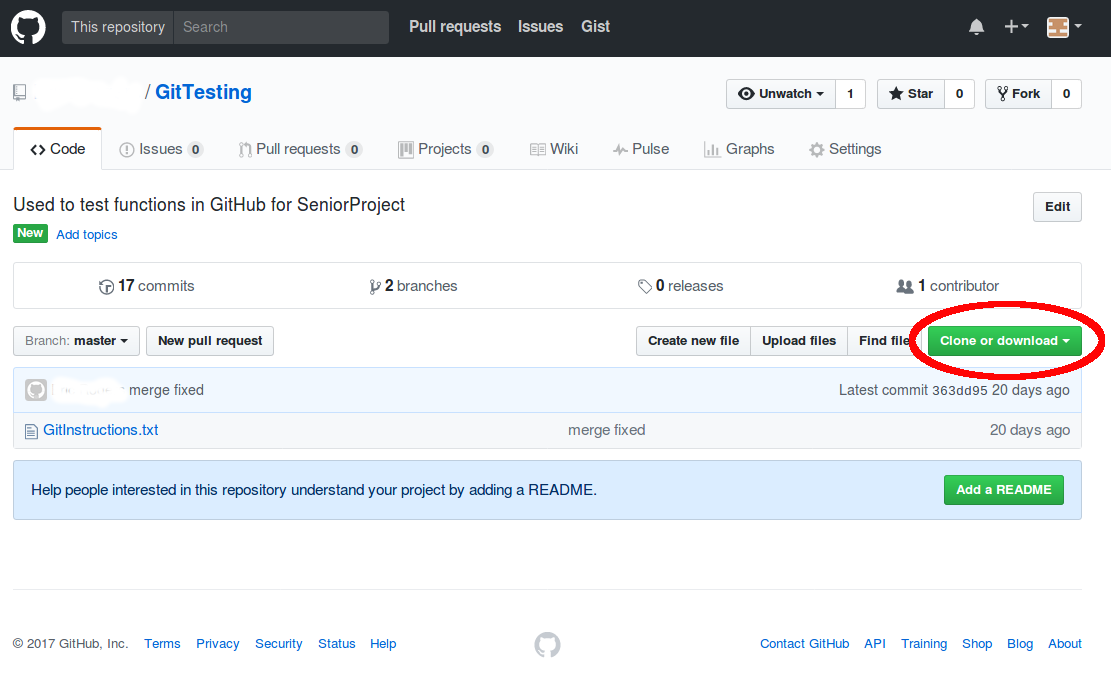
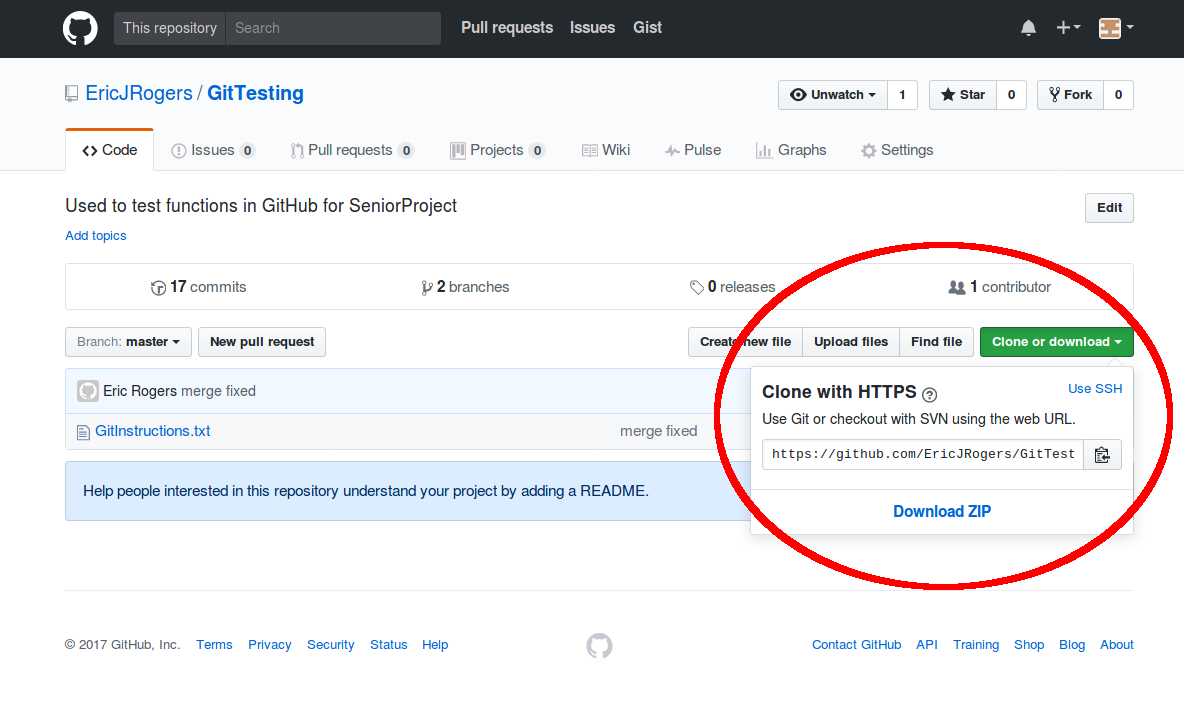
Image Modal in progress

diff --git a/Views/index.html b/Views/index.html
@@ -40,10 +40,7 @@
                   <ul class="nav nav-pills nav-stacked">
                     <li><a href="https://github.com/" target="_blank">GitHub</a></li>
                     <li><a href="https://sso.mcla.edu/" target="_blank">MCLA Portal</a></li>
-              <!---<li><a href="https://www.mcla.edu/Academics/undergraduate/computerscience/index" target="_blank">MCLA Computer Science</a></li>
-                    <li><a id="button-index" class="panel-btn" href="#">Index Page</a></li>
-                    <li><a id="button-terms" class="panel-btn" href="#">Terminology</a></li>
-                    <li><a id="button-diagrams" class="panel-btn" href="#">Diagrams</a></li>--->
+                    <li><a href="https://www.mcla.edu/Academics/undergraduate/computerscience/index" target="_blank">MCLA Computer Science</a></li>
                     <li><a href="https://git-scm.com/book/en/v2" target="_blank">Reference Book</a></li>
                     <li><a href="https://www.atlassian.com/git/tutorials/learn-git-with-bitbucket-cloud" target="_blank">Reference Tutorial</a></li>
                     <li><a href="http://www.mcla.edu/Academics/undergraduate/computerscience/faculty/index" target="_blank">Get Help</a></li>
@@ -262,7 +259,7 @@
               <p>Git will install automatically, nothing further is needed for installation.</p>
 
               <p><strong>MacOSX:</strong> To install Git on MacOSX, run the command shown in a terminal window.</p>
-              <p>If Git is not already installed, you will then be asked if you would like to install git.  Select yes, and git will install onto your system.</p>
+              <p>If Git is not already installed, you will then be asked if you would like to install Git.  Select yes, and Git will install onto your system.</p>
 
               <p><strong>Configuration:</strong>  Once you have Git installed, the first thing you should do is configure it to your identity.</p>
               <p>Every Git commit you make uses this information, so it is important that you set this up.  Simply run the commands shown in the
@@ -270,13 +267,13 @@
               the same commands without the "--global" tag in which ever project you are in.  This will not overwrite your global settings unless you include
               the "--global" tag.</p>
 
-              <p><strong>Create a Repository:</strong>  Creating a Repository is done on the GitHub website.</p>
-              <p>To get your GitHub Repository URL, simply log into GitHub and click on the repository you would like to clone.  On that page you will find
-              a green button that reads "Clone or Download", click that button and copy the URL displayed.</p>
+              <p><strong>Create a Repository:</strong>  Creating a Repository is done on the GitHub website, <a href="#" class="trigger-img-modal" id="create-repo">see here!</a></p>
+              <p>To Create a Repository, first you must login to GitHub.  Once you are on your home page, there will be a green button in the right margin that
+              says "New Repository".  From there, fill in the Repository name and/or description and proceed to click the "Create Repository" button at the bottom.</p>
 
               <p><strong>Clone a Repository:</strong>  Once you have your GitHub Repository URL, run the command shown in the terminal window.</p>
-              <p>To get your GitHub Repository URL, simply log into GitHub and click on the repository you would like to clone.  On that page you will find
-              a green button that reads "Clone or Download", click that button and copy the URL displayed.</p>
+              <p>To get your GitHub Repository URL, simply login to GitHub and click on the repository you would like to clone.  Your Repositories will be displayed
+              on your home page. On that page you will find a green button that reads "Clone or Download", click that button and copy the URL displayed.</p>
             </div>
           </div>
         </div>
@@ -516,6 +513,10 @@
               <p>Locate the project repository you would like to contribute to, click the Fork button in the upper right side of the screen.
               This creates your Forked Repository, now all that is left to do is to clone that repository and you're good to go.</p>
 
+              <p class="modal-img-p">
+                <img class="modal-img" src="../Assets/Images/createFork.png" alt="Git Create Fork Image">
+              </p>
+
               <p><strong>Check Fork Upstream:</strong> By Default you will have to set this up.</p>
               <p>After you set up your Fork Upstream, you can run this again to ensure it is set up correctly.</p>
 
@@ -565,6 +566,10 @@
               simply click Create Pull Request again and you are done.</p>
               <p>After the Pull Request is submitted, people may make comments on a few changes they would like to see.  In this case you can make the changes to
               the branch you submitted and just re-push it up to your Forked Repository, the Pull Request will automatically reflect those changes made.</p>
+
+              <p class="modal-img-p">
+                <img class="modal-img" src="../Assets/Images/pullRequest.jpg" alt="Make Pull Request Image">
+              </p>
 
               <p><strong>Merging Pull Request:</strong> This can only be done by the Project Owner, or those authorized to do so.</p>
               <p>This also is done on the GitHub website, once the code has been reviewed and approved, there is a merge button at the bottom of the Pull Request
@@ -734,7 +739,7 @@
           </div>
           <div class="row modal-body-bottom">
             <div class="col-md-12">
-              <p><strong>Viewing Logs:</strong> Many options for this command can be found in Reference Book</p>
+              <p><strong>Viewing Logs:</strong> Many options for this command can be found in the Reference Book</p>
               <p>It can be very beneficial to see what has happened throughout a projects history.  By default, with no arguments, this command will list all commits in
               reverse chronological order in the repository.  There are too many options to provide here, but consider adding the -(n) argument, where (n) is the number
               of commits you would like to see.  This will list most recent (n) commits rather than all of them.  Press Q to exit.</p>
@@ -762,151 +767,6 @@
       </div>
     </div>
 
-<!---    <div id="modal-index" class="modal fade">
-      <div class="modal-content">
-        <div class="modal-header">
-          <button type="button" class="close" data-dismiss="modal">&times;</button>
-          <h4 class="modal-title">Misc Commands</h4>
-        </div>
-        <div class="container modal-body">
-          <div class="row modal-body-top-index">
-            <div class="col-md-6 col-xs-12">
-              <dl class="dl-horizontal">
-                <dt>Understanding GitHub</dt>
-                  <dd>What is GitHub?</dd>
-                  <dd>Why is GitHub Important?</dd>
-                  <dd>Git Workflow</dd>
-                <dt>Get Started</dt>
-                  <dd>Installing Git</dd>
-                  <dd>Configuring GitHub</dd>
-                  <dd>Clone GitHub Repository</dd>
-                <dt>Basic GitHub</dt>
-                  <dd>Add to Staging Area</dd>
-                  <dd>Commit to Local Repository</dd>
-                  <dd>Push to Remote Repository</dd>
-                  <dd>Check File States</dd>
-                  <dd>Pull from Remote Repository</dd>
-              </dl>
-            </div>
-            <div class="col-md-6 col-xs-12">
-              <dl class="dl-horizontal">
-                <dt>Learning Branches</dt>
-                  <dd>What is a Branch?</dd>
-                  <dd>Why Are Branches Important?</dd>
-                  <dd>Branches & Git Workflow</dd>
-                <dt>Get Started with Branches</dt>
-                  <dd>Create a Branch</dd>
-                  <dd>View Branches</dd>
-                  <dd>Switch Branch</dd>
-                  <dd>Delete Branch</dd>
-                <dt>Intermediate GitHub</dt>
-                  <dd>Add, Commit, and Push with Branches</dd>
-                  <dd>Merge Branch</dd>
-                  <dd>Branch Merge Conflicts</dd>
-              </dl>
-            </div>
-          </div>
-          <div class="row modal-body-bottom-index">
-            <div class="col-md-6 col-xs-12">
-              <dl class="dl-horizontal">
-                <dt>Understanding Forks</dt>
-                  <dd>What is a Fork?</dd>
-                  <dd>Why are Forks Important?</dd>
-                  <dd>Forks & Git Workflow</dd>
-                <dt>Get Started with Forks</dt>
-                  <dd>Create Fork</dd>
-                  <dd>Configure Fork Upstream</dd>
-                  <dd>Pull Fork Upstream</dd>
-                <dt>Advanced GitHub</dt>
-                  <dd>Create Pull Request</dd>
-                  <dd>Merge Pull Request</dd>
-                  <dd>Fork Merge Conflicts</dd>
-              </dl>
-            </div>
-            <div class="col-md-6 col-xs-12">
-              <dl class="dl-horizontal">
-                <dt>Git Stash/Pop</dt>
-                  <dd>Git Stash</dd>
-                  <dd>Stash List</dd>
-                  <dd>Show Stash</dd>
-                  <dd>Git Pop</dd>
-                  <dd>Git Drop</dd>
-                <dt>Rewriting History</dt>
-                  <dd>Amend Commit</dd>
-                  <dd>Un-stage File</dd>
-                  <dd>Revert Modified File</dd>
-                  <dd>Reset Branch</dd>
-                  <dd>Revert Branch</dd>
-                  <dd>Checkout Commit</dd>
-                <dt>Misc Commands</dt>
-                  <dd>View Logs</dd>
-                  <dd>Git Merge</dd>
-                  <dd>Git Rebase</dd>
-              </dl>
-            </div>
-          </div>
-        </div>
-        <div class="modal-footer">
-          <button type="button" class="btn btn-primary btn-default" data-dismiss="modal">Close</button>
-        </div>
-      </div>
-    </div>   --->
-
-    <div id="modal-terms" class="modal fade">
-      <div class="modal-content">
-        <div class="modal-header">
-          <button type="button" class="close" data-dismiss="modal">&times;</button>
-          <h4 class="modal-title">Modal Index</h4>
-        </div>
-        <div class="modal-body">
-          <p>Some text in the modal.</p>
-        </div>
-        <div class="modal-footer">
-          <button type="button" class="btn btn-primary btn-default" data-dismiss="modal">Close</button>
-        </div>
-      </div>
-    </div>
-
-    <div id="modal-diagrams" class="modal fade">
-      <div class="modal-content">
-        <div class="modal-header">
-          <button type="button" class="close" data-dismiss="modal">&times;</button>
-          <h4 class="modal-title">Diagrams</h4>
-        </div>
-        <div class="modal-body">
-          <div id="diagrams-carousel" class="carousel slide" data-interval="false">
-            <ol class="carousel-indicators">
-              <li data-target="#diagrams-carousel" data-slide-to="0" class="active"></li>
-              <li data-target="#diagrams-carousel" data-slide-to="1"></li>
-              <li data-target="#diagrams-carousel" data-slide-to="2"></li>
-            </ol>
-            <div class="carousel-inner" role="listbox">
-              <div class="item active">
-                <img class="img-responsive center-block" src="../Assets/Images/areas.png" alt="First slide">
-              </div>
-              <div class="item">
-                <img class="img-responsive center-block" src="../Assets/Images/BasicGit.png" alt="Second slide">
-              </div>
-              <div class="item">
-                <img class="img-responsive center-block" src="../Assets/Images/github1.png" alt="Third slide">
-              </div>
-            </div>
-            <a class="left carousel-control" href="#diagrams-carousel" role="button" data-slide="prev">
-              <span class="glyphicon glyphicon-chevron-left" aria-hidden="true"></span>
-              <span class="sr-only">Previous</span>
-            </a>
-            <a class="right carousel-control" href="#diagrams-carousel" role="button" data-slide="next">
-              <span class="glyphicon glyphicon-chevron-right" aria-hidden="true"></span>
-              <span class="sr-only">Next</span>
-            </a>
-          </div>
-        </div>
-        <div class="modal-footer">
-          <button type="button" class="btn btn-primary btn-default" data-dismiss="modal">Close</button>
-        </div>
-      </div>
-    </div>
-
     <div id="modal-help" class="modal fade">
       <div class="modal-content">
         <div class="modal-header">
@@ -920,6 +780,11 @@
           <button type="button" class="btn btn-primary btn-default" data-dismiss="modal">Close</button>
         </div>
       </div>
+    </div>
+
+    <div id="modal-display-image" class="modal fade">
+      <button id="modal-display-image-close" type="button" class="close" data-dismiss="modal">&times;</button>
+      <img id="variable-modal-img" class="modal-content image-modal-content">
     </div>
     <!-- END MODAL HTML -->
     <!-- BEGIN FOOTER HTML -->

diff --git a/Assets/Scripts/index.js b/Assets/Scripts/index.js
@@ -6,10 +6,6 @@ function loadModal() {
   var button_id = this.id;
   var modal_id = '#modal-'.concat(button_id.substring(7));
   $(modal_id).modal();
-
-  if(modal_id == "modal-diagrams") {
-    $("#diagrams-carousel").carousel();
-  }
 }
 
 //Function displays proper instructions to modal terminal display based on id of modal-btn clicked
@@ -186,6 +182,24 @@ function clearTerminal() {
   $('.terminal-window').append('user@terminal:~$ ');
 }
 
+//Function will display proper Image in Modal
+function loadImgModal() {
+  var anchor_id = this.id;
+  var img = document.getElementById('variable-modal-img');
+  img.src = "../Assets/Images/".concat(anchor_id + ".png");
+  img.alt = anchor_id;
+  var modal = $('#modal-display-image');
+  modal.modal();
+
+  // Get the <span> element that closes the modal
+  var span = document.getElementsById("modal-display-image-close")[0];
+
+  // When the user clicks on <span> (x), close the modal
+  span.onclick = function() {
+    modal.style.display = "none";
+  }
+}
+
 //Functions listening once document is loaded
 function init() {
   //Button clicked will Load Modal
@@ -194,6 +208,8 @@ function init() {
   $('.modal-btn').click(generateInstruction);
   //Will clear terminal window when modal becomes hidden
   $('.modal').on('hidden.bs.modal', clearTerminal);
+  //Anchor clicked will Load Image Modal
+  $('.trigger-img-modal').click(loadImgModal);
 }
 
 $(document).ready(init);

diff --git a/Assets/Stylesheets/index.css b/Assets/Stylesheets/index.css
@@ -89,6 +89,9 @@ img {
 }
 
 /*  Modal CSS  */
+.modal-open {
+  padding-right: 0px !important;
+}
 .modal-content {
   left: 50%; top: 50%;
   transform: translate(-50%, -50%);
@@ -179,29 +182,7 @@ img {
   height: 50%;
 }
 
-/*  Carousel CSS  */
-.carousel-inner {
-  margin-bottom: 10px;
-}
-
-#diagrams-carousel, .carousel-inner, .item {
-  height: 95%;
-  width: 100%;
-}
-
-.carousel-indicators {
-  bottom: -20px;
-}
-
-.carousel-indicators li {
-    display: inline-block;
-    background-color: white;
-    box-shadow: inset 1px 1px 1px 1px black;
-}
-.carousel-indicators .active {
-  background-color: black;
-}
-
+/*  Images display in basic Modal  */
 .workflow-img {
   width: 100%;
 }
@@ -209,6 +190,24 @@ img {
 .modal-img {
   width: 40%;
   height: 35%;
+}
+
+/*  Image Modals CSS  */
+#modal-display-image-close {
+    position: absolute;
+    top: 15px;
+    right: 35px;
+    color: #f1f1f1;
+    font-size: 40px;
+    font-weight: bold;
+    transition: 0.3s;
+}
+
+#modal-display-image-close:hover,
+#modal-display-image-close:focus {
+    color: #bbb;
+    text-decoration: none;
+    cursor: pointer;
 }
 
 .modal-img-p {
